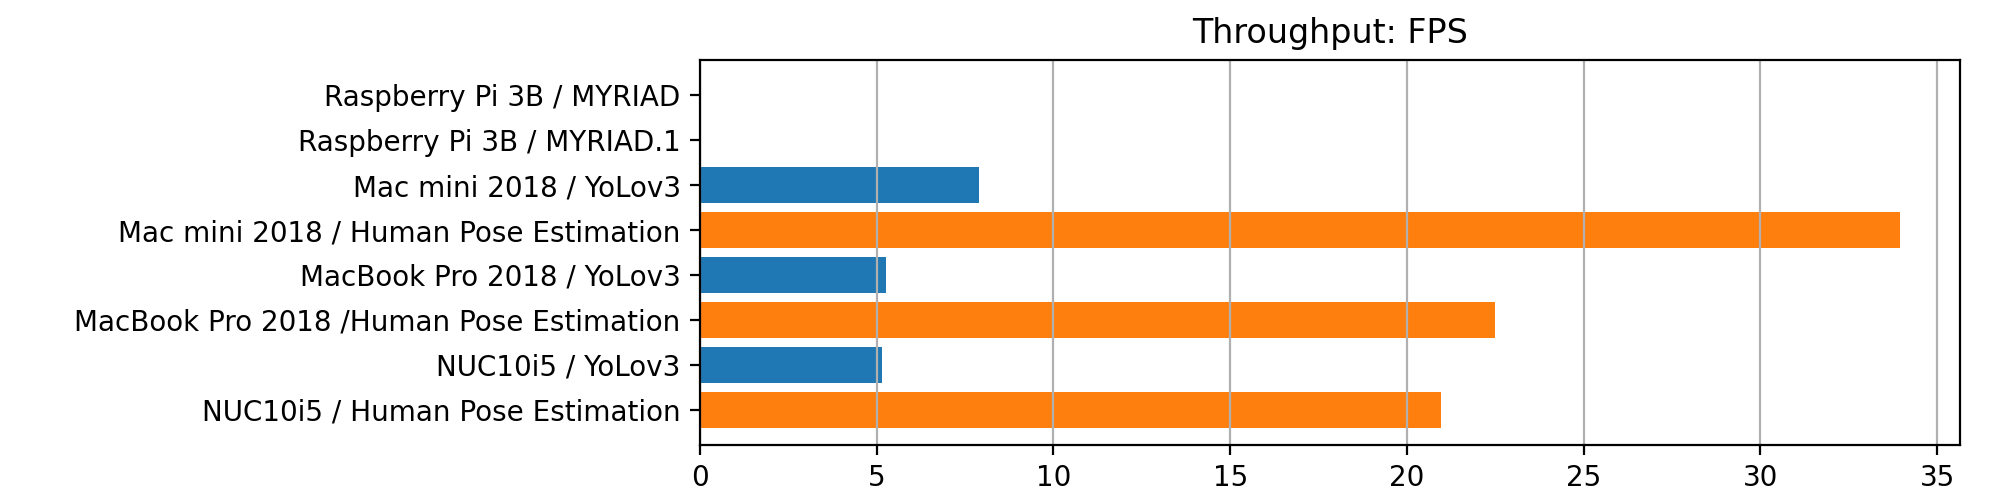
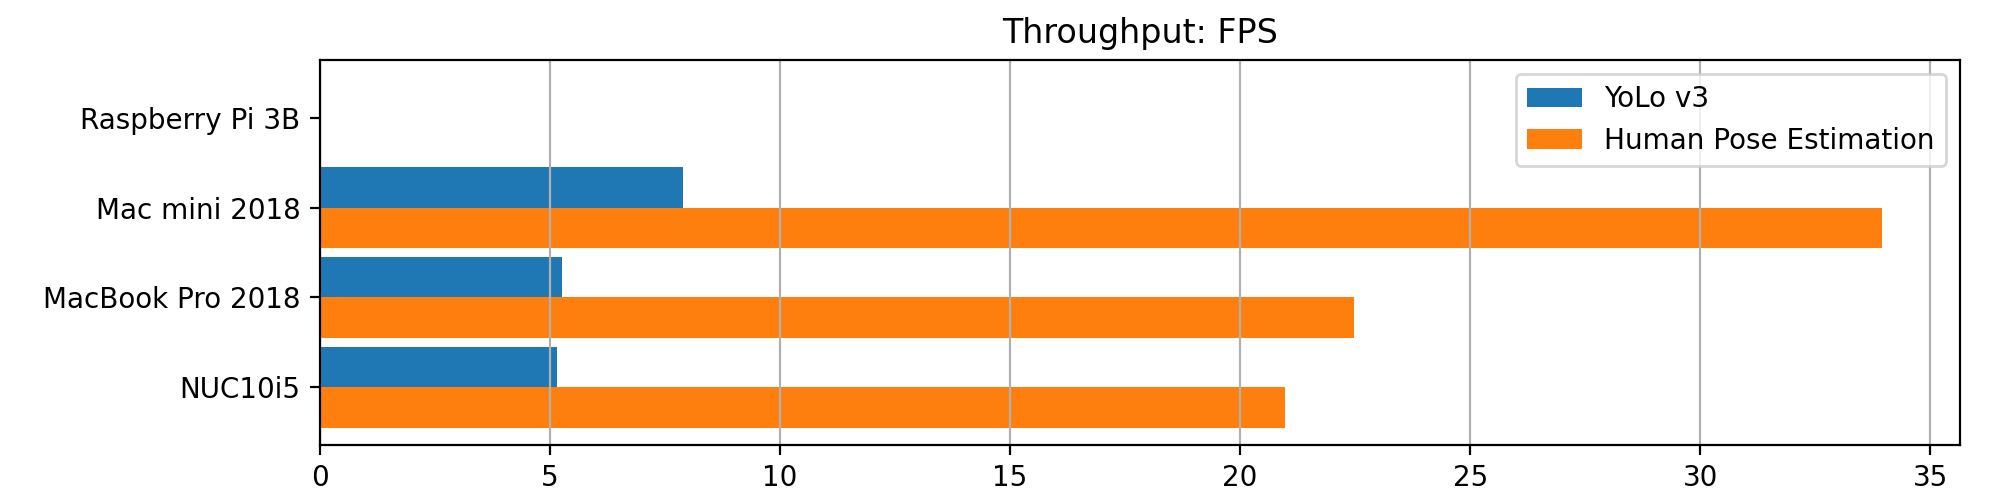
improve bar chart

diff --git a/benchmark.py b/benchmark.py
@@ -3,36 +3,48 @@
 
 import pandas as pd
 import matplotlib.pyplot as plt
+import re
+import numpy as np
 
 csvfile = "benchmark.cvs"
 
-df = pd.read_csv(csvfile)
-length = len(df)
+df = pd.read_csv(csvfile, index_col=0)
 
 def make_chart(idx):
 
-    df2 = df.loc[idx]
-    testname = df2[df2.index[0]]
-    index = df2.index[1:]
-    data = [df2[i] for i in index]
-    colorlist =  ["tab:blue" if i % 2 == 0 else "tab:orange" for i in range(len(data))]
+    title = df.index[idx]
+    df2 = df.loc[title]
 
-    fig = plt.figure(figsize=(10, 2.5), dpi=100)
+    cols = len(df2)
+    index = [df2.index[i] for i  in range(0, cols, 2)]
+    index = [re.sub(" / [0-9 a-zA-Z]*", "", str) for str in index]
+    yolo = [df2[i] for i  in range(0, cols, 2)]
+    hpe = [df2[i] for i  in range(1, cols, 2)]
 
-    plt.barh(index, data, color=colorlist)
-    plt.grid(axis='x')
-    plt.title(testname)
-    plt.subplots_adjust(left=0.35, right=0.98)
+    fig = plt.figure(figsize=(10, 2.5))
+	
+    bar_width = 0.45
+    x = np.arange(len(index))
+	
+    plt.title(title)
+    plt.barh(x - bar_width/2, yolo, bar_width, color="tab:blue", label="YoLo v3")
+    plt.barh(x + bar_width/2, hpe, bar_width, color="tab:orange", label="Human Pose Estimation")
+    plt.legend()
+    plt.subplots_adjust(left=0.16, right=0.98)
     plt.gca().invert_yaxis() # 上下並びを逆順に
+    plt.yticks(x, index)
+    plt.grid(axis='x')
 
     plt.pause(5)
-    # plt.show()
     fig.savefig("images/" + str(idx) + ".png")
 
+##
+##
+##
 make_chart(2)
 make_chart(3)
 
-import pdb; pdb.set_trace()
+# import pdb; pdb.set_trace()
 
 ### Local Variables: ###
 ### truncate-lines:t ###

diff --git a/README.md b/README.md
@@ -6,8 +6,16 @@
 - NUC10i5 : Core i5-10210U, 8コア, 1.60GHz
 
 ![table](images/table.png)
-![2](images/2.png)
 ![3](images/3.png)
+![2](images/2.png)
+
+## Reference
+
+- [human-pose-estimation-0001](https://docs.openvinotoolkit.org/2019_R1/_human_pose_estimation_0001_description_human_pose_estimation_0001.html)
+- [Human Pose Estimation C++ Demo](https://docs.openvinotoolkit.org/latest/omz_demos_human_pose_estimation_demo_README.html)
+- [YOLOv3 を OpenVINO™ ツールキットで使用する IR 形式へ変換してみよう](https://macnicago.zendesk.com/hc/ja/articles/360042709871-YOLOv3-%E3%82%92-OpenVINO-%E3%83%84%E3%83%BC%E3%83%AB%E3%82%AD%E3%83%83%E3%83%88%E3%81%A7%E4%BD%BF%E7%94%A8%E3%81%99%E3%82%8B-IR-%E5%BD%A2%E5%BC%8F%E3%81%B8%E5%A4%89%E6%8F%9B%E3%81%97%E3%81%A6%E3%81%BF%E3%82%88%E3%81%86)
+- [Object Detection YOLO* V3 C++ Demo, Async API Performance Showcase](https://docs.openvinotoolkit.org/latest/omz_demos_object_detection_demo_yolov3_async_README.html)
+
 
 ## tools
 
